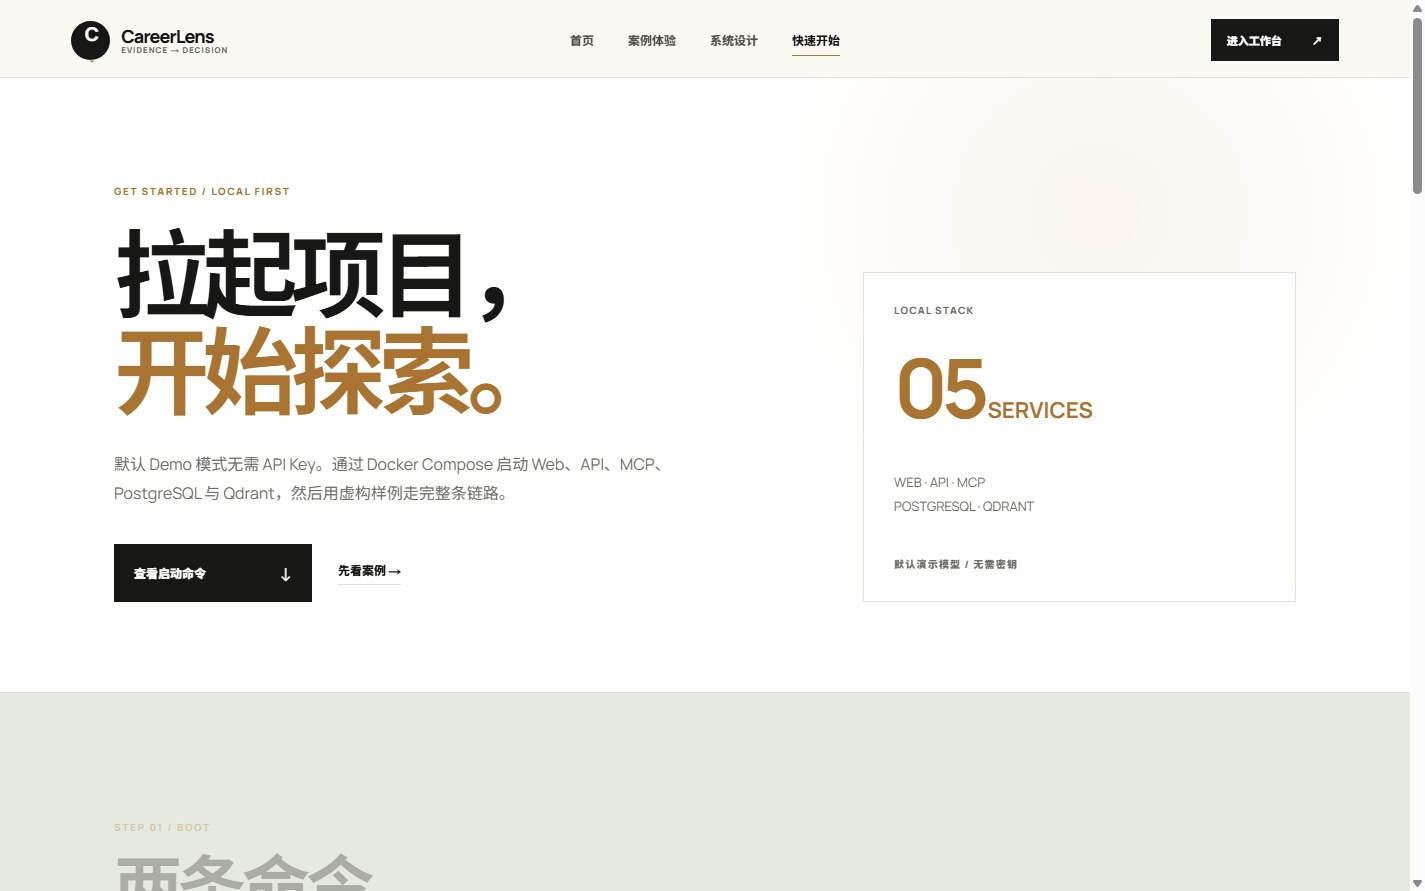
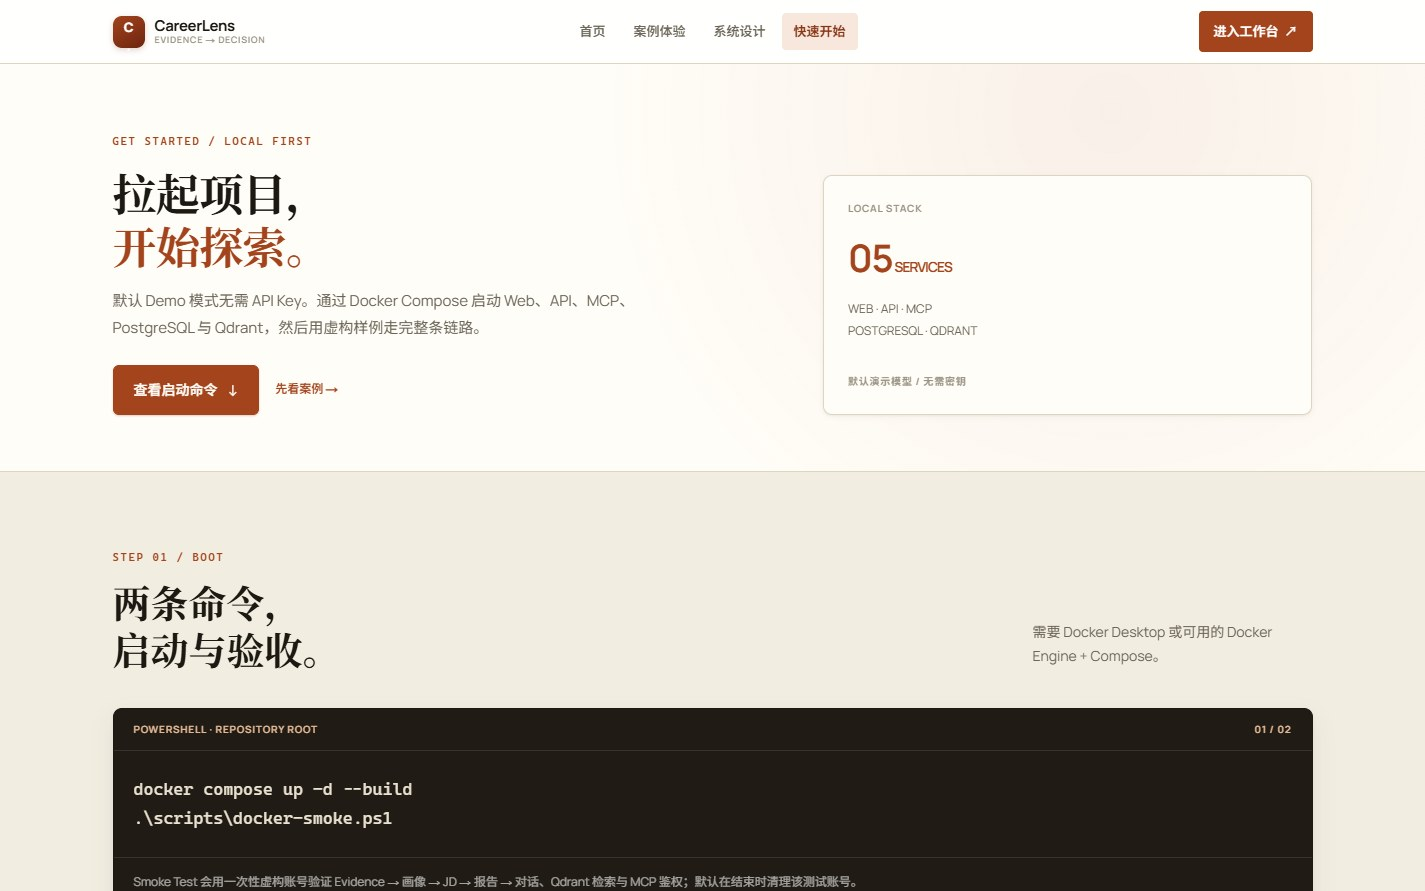
docs: refresh showcase, quality gates and capture workflow

diff --git a/examples/tutorials/fixtures/hy4-lin-api.html b/examples/tutorials/fixtures/hy4-lin-api.html
@@ -1,0 +1,11 @@
+<!doctype html>
+<html lang="zh-CN">
+  <head>
+    <meta charset="utf-8">
+    <title>林澈的课堂 API 作业记录</title>
+    <script type="application/json">{"fixture_marker": "Kubernetes"}</script>
+  </head>
+  <body>
+    <p>我用 Python 和 FastAPI 完成了一次课程接口，并用 Docker 在本机运行。</p>
+  </body>
+</html>

diff --git a/docs/profile-and-recommendations.md b/docs/profile-and-recommendations.md
@@ -2,15 +2,15 @@
 
 这篇文档说明 HY4 增强的行为边界：哪些数字有证据支撑，哪些只是用户自陈，哪些是本地教学模板。实现以当前源码为准，本文不承诺真实市场准确率。
 
+跟做可从[导入与可回查画像](../tutorials/10-导入与可回查画像.md)开始，再用同一份资料做[岗位对比与学习计划](../tutorials/11-岗位对比与学习计划.md)。
+
 ## 1. 导入结果卡
 
-上传文件或解析媒体后，工作台会显示：
+同步上传响应和后台上传任务的 `result` 提供下面几类字段。工作台的任务中心显示状态与证据条数，可用 Run ID 到 Swagger 查看任务结果，随后按证据编号读取原文。
 
-- **可读证据数**：真正生成 Evidence 的条数；
-- **待 OCR 页数**：扫描页数量，这些页不产生文字证据；
-- **重复跳过数**：同源文件重复上传时命中的去重次数；
-- **告警**：待 OCR 页、全扫描件、旧 `.doc` 转换提示；
-- **证据定位**：点击展开原文、来源、页码与 `claim_strength`，可从这里删除单条证据。
+- **`readable_count`** 统计有正文且没有待 OCR 标记的解析块。`count` 统计响应带回的 Evidence。
+- **`ocr_pending_count`** 统计需要 OCR 的扫描页，`warnings` 补充原因。
+- **证据编号** 可从同步上传的 `items` 或任务的 `result.evidence_ids` 查得。重复上传同一文件时，比对证据编号和来源编号。连接器另返回 `created_count`、`skipped_count` 和 `duplicate_count`。
 
 关键口径：**任务成功不等于读出了文字**。全扫描 PDF 可能入库成功但 Evidence 为 0，解析状态是 `partial`。旧 `.doc` 返回 422 并提示另存为 `.docx` 或导出带文字层 PDF。
 
@@ -41,13 +41,13 @@
 - 课程含技能、级别、格式、提供者、课时、成本、先修、URL、许可、语言、最近核对时间和验收方式；
 - 加载时校验重复 ID、悬空先修、URL 协议白名单和日期格式；坏数据报错而不是静默产出空推荐。
 
-推荐是确定性的：方向按真实技能的证据覆盖度排序，课程按技能、先修和每周预算筛选。理由必须能回到 Evidence。人格测评结果、点赞收藏和自填标签都不参与排序。
+推荐按确定性规则运行。方向先按可回查技能覆盖的必需项比例排序，同分再按加分项命中数。课程按技能找目录项，返回建议课时和先修关系，供读者安排时间。方向推荐的理由可以回到 Evidence。人格测评结果、点赞收藏和自填标签都不参与这个排序。
 
 注意：这些是教学模板，不代表招聘市场统计；课程只保留 URL 与元数据，运行时不抓取外部内容。
 
 ## 5. 多 JD 对比与学习看板
 
-用户可保存 2–3 份 JD，保留原句、优先级和用户更正。对比只展示共用能力和重复出现的需求，不把重复要求算两次；每份 JD 的规则分仍需分别运行岗位分析。
+用户可以保留每份 JD 的原句和备注。`GET /api/v1/saved-jobs/compare` 返回最近三份保存记录，可据此并排找共同要求。分别运行岗位分析，才能得到每份 JD 的匹配分和缺口。
 
 学习看板把现有 `learning_path` 按周排布，加入资源、验收方式和进度状态（待开始 / 进行中 / 待提交作品 / 已核对 / 暂停）。进度只能关联当前用户已存在的 Evidence；作品提交不会自动新增能力事实。
 
@@ -80,8 +80,8 @@
 
 - `Coordinator` 预算默认 2，可参数化；现有四个 specialist 之间有数据依赖，仍按顺序派发；
 - 新增的三个 specialist 只返回草稿，不写业务表；
-- 并行前先把 `RunEvent.seq` 改成数据库层原子自增；现在 `event()` 用 `UPDATE ... RETURNING` 分配序号；
-- `delegate_many()` 只对无依赖的只读角色使用；任一分支失败则整次 Run 失败/重试；
+- `event()` 用 `UPDATE ... RETURNING` 原子分配 `RunEvent.seq`；
+- 并行入口的测试使用两个无依赖的只读角色。任一分支失败时，`delegate_many()` 向调用方抛出异常。默认岗位、Wiki 与报告操作仍按各自依赖顺序派发；
 - `delegate()` 失败会补发 `step.failed`，避免 SSE 停在 running；
 - Demo provider 没有网络延迟，测不出提速；只有 fake provider 或真实 provider 的对照数据显示 P95 下降且失败率不升，才能说「提速」。
 
@@ -93,6 +93,7 @@
 
 - **A 用户导出/粘贴**：文本直录、PDF/Word .docx/表格、HTML 另存为与 ZIP 导出包、图片音视频、B站/微博导出、公开链接证据卡；
 - **B 当前页采集**：浏览器扩展手动勾选的可见内容；
+- **T 自备只读令牌**：用自己的 GitHub 令牌读取选定仓库的元数据和 README；
 - **C 需平台授权**：`official_oauth` 明确标为 `available: false`，没有端点，不声称可用。
 
 HTML 与 ZIP 都用 Python 标准库解析：**不联网、不登录、不需要 bs4/lxml**。HTML 跳过 script/style，ZIP 拒绝路径穿越与超大成员。公开链接证据卡只保存用户填写的 URL、标题和说明，后端**从不访问该链接**，也不证明账号归属；链接带 query token 时会被清掉。
@@ -101,7 +102,7 @@ HTML 与 ZIP 都用 Python 标准库解析：**不联网、不登录、不需要
 
 `GET/PUT /api/v1/profiles/{user_id}/view-preferences` 保存五种模式：求职冲刺、转行探索、能力盘点、学习计划、极简模式；并可选择十个显示模块（技能矩阵、经历时间线、兴趣线索、目标角色、证据健康度、工作价值观、约束条件、自定义维度、学习进度、面试故事库）。
 
-模式**只改变展示和推荐软排序**：不修改 `profile_items`、不增删 Evidence、不改变岗位匹配分。偏好存在 `user_constraints`，不属于事实画像。
+模式与模块开关作为显示偏好保存在 `user_constraints`。可以从相同端点读回设置，画像条目、引用和岗位匹配分仍使用各自的数据。
 
 能力证据卡把每条画像拆成「动作 + 环境 + 证据 + 状态」，状态区分已确认/证据支持/自报/待补证据。
 

diff --git a/AI_CONTEXT.md b/AI_CONTEXT.md
@@ -1,6 +1,6 @@
 # CareerLens AI 上下文导航（AI 专用）
 
-> 更新时间：2026-11-25。这个文件是给 AI 查阅用的**代码与公开文档索引**，不是给读者看的产品介绍。
+> 更新时间：2026-11-26。这个文件是给 AI 查阅用的**代码与公开文档索引**，不是给读者看的产品介绍。
 > 目标：让 AI 在回答「某个功能在哪、以前怎么做、现在怎么做、改它要读什么」时，不必重新遍历整个仓库。
 > 入口规则见 [`AGENTS.md`](AGENTS.md)；仓库外的本地管理文档见 [`../AI查阅导航.md`](../AI查阅导航.md)。
 
@@ -13,8 +13,8 @@
 | 产品版本 | v0.4.0；三期产品交付完成，`CHANGELOG.md` 已回填 |
 | 仓库 | https://github.com/wenmo-yu/careerlens |
 | 公开教程站 | https://wenmo-yu.github.io/careerlens/ |
-| 最新公开教程提交 | `07b9edc`（第五至八章加厚）；本轮公开提交序列 `d27e680` → `e9dd414` → `6cd5b86` → `ab95500` → `07b9edc` |
-| 验证基线 | 后端 220 项测试、20 个冻结合成场景、Quality Gate 三项全绿；Docsify build 0 坏链/坏锚点；HY4 后新增导入结果、画像概览、目录推荐、学习进度、测评、运行时、HTML/ZIP、画像模式、来源注册表专项测试 |
+| 最新公开提交 | `f275504`（视觉换向 + 质量门禁）；教程侧最新为 `4974e43`（PR #47，同步工作台重构后的源码链接） |
+| 验证基线 | 后端 245 项测试（覆盖率门槛 78%，实测 82.5%）、20 个冻结合成场景、Playwright 端到端 4 项、Quality Gate 六项全绿（backend / frontend / e2e / docker-smoke / pip-audit / pnpm audit）；Docsify build 96 文件 0 坏链；HY4 后新增导入结果、画像概览、目录推荐、学习进度、测评、运行时、HTML/ZIP、画像模式、来源注册表与 Prometheus 指标专项测试 |
 | 默认可运行方式 | Docker Compose；无需 API Key，使用确定性 Demo 模型与本地检索 |
 | 仍未完成 | 真人独立试学、真机初装/剪贴板/跨端点检、真实模型与旧库迁移；这些是验证缺口，不是源码缺口 |
 | 本地 git 状态 | 本地 `HEAD` 和 `ahead` 可能滞后（远端 fetch 502），**远端 main + Actions + Pages 才是权威** |
@@ -331,7 +331,7 @@ HTTP/MCP 请求
 
 | 文件 | 用途 |
 | --- | --- |
-| `tutorials/README.md` | 四篇基础概念 → 跑产品 → 最小实现与 Agent 源码 → 知识库 → 任务与接入 → 选做和结课 |
+| `tutorials/README.md` | 第一章八篇概念 → 跑产品 → 最小实现与 Agent 源码 → 知识库 → 任务与接入 → 画像和学习实战 → 选做与结课 |
 | `tutorials/setup/动手准备.md` | 终端、编辑器、统一 Python 环境与 8000 / 8030 / 8031 的账号、数据交接 |
 | `tutorials/从这里开始.md` | Docsify 首页；3 分钟证据判断题 |
 | `tutorials/术语表.md` | 术语口径 |
@@ -341,7 +341,7 @@ HTTP/MCP 请求
 | `tutorials/静态观察路线.md` | 不能装 Docker 时的替代路线 |
 | `tutorials/结课模板.md` | 可复跑结课交付模板 |
 
-### 8.2 阶段 0：八篇概念课（`00-foundations/`）
+### 8.2 第一章：八篇概念课（`00-foundations/`）
 
 | 文件 | 主题 |
 | --- | --- |
@@ -369,6 +369,9 @@ HTTP/MCP 请求
 | `08-advanced/08-1-真实模型.md` | 真实模型与 OCR/ASR 边界 |
 | `08-advanced/08-2-评测.md` | 评测实验与指标 |
 | `08-advanced/08-3-贡献与结课.md` | 贡献流程与结课交付 |
+| `09-画像与自陈测评.md` | 自陈与事实对照、三份量表、可选 GitHub 导入 |
+| `10-导入与可回查画像.md` | 合成 HTML 与收藏对照、上传结果、覆盖度、画像偏好和权限清单 |
+| `11-岗位对比与学习计划.md` | 延续第 10 篇账号，按同一画像比较两个岗位、选择课程并保存进度 |
 | `01-agent-design/` | 10 篇 Agent 源码课 + README + `lab/`；从请求状态、路由、工具、MCP、引用、会话到子 Agent 与综合跟做 |
 | `01-agent-design/入门练习-从零写证据助手.md` | 从空目录写证据、检索和引用的最小实现，选做 FastAPI |
 | `04-knowledge-base/` | 6 篇数据知识库课 + README + `lab/kb_practice.py`；去重、检索、Wiki 编译、表格保护、版本回滚、综合验收 |
@@ -381,6 +384,7 @@ HTTP/MCP 请求
 | 路径 | 放的是什么 |
 | --- | --- |
 | `examples/tutorials/README.md` | 六个跟做脚本的依赖与命令索引 |
+| `examples/tutorials/fixtures/hy4-lin-api.html` | 第 10、11 篇共用的合成 HTML 作业证据 |
 | `examples/tutorials/read_mcp_report.py` | 用只读令牌从工具和资源两处读取第 07 篇的同一份报告 |
 | `examples/tutorials/fixtures/{my_scale,work-style-neutral}.json` | 第 09 篇的量表包与可提交答案，原始数据在 assessment 目录 |
 | `examples/tutorials/_client.py` | 教学脚本共用的轻量 API 客户端 |

diff --git a/docs/showcase.md b/docs/showcase.md
@@ -14,7 +14,7 @@
 
 ## 1. 产品首页
 
-首页用证据驱动的职业判断作为主线。右侧控制台是**明确标注为虚构的界面预览**，不是已登录用户的数据。
+首页用证据驱动的职业判断作为主线。标题下方是工作台的真实渲染截图，数据明确标注为虚构示例，不是已登录用户的资料。
 
 ![CareerLens 新版产品首页](assets/overview.jpg)
 
@@ -42,15 +42,15 @@
 
 ## 5. 构建职业画像
 
-导入虚构自述后，系统将其转为 Evidence，并提取带证据数量和置信度的结构化画像条目。
+导入虚构自述后，系统将其转为 Evidence，并提取结构化画像条目。技能用五格等级刻度表示抽取器给出的 L1–L5，可信度只分高/中/低三档，旁边是证据条数——单条自述通常只有 `L2 / 1 条证据 / 可信低`，界面不会把它画成“掌握度 100%”。四块内容分别是类别分布、证据覆盖度、技能矩阵和证据时间线，都提供文字表格降级。
 
-![由虚构经历生成的结构化职业画像](assets/profile.jpg)
+![画像分布、证据覆盖度、技能矩阵与证据时间线](assets/profile.jpg)
 
 ## 6. 岗位逐项匹配
 
-从 JD 识别要求，与当前画像逐项对照，显示 `partial`、`gap` 和学习路径。截图中的 56.9% 是当前规则模型下的匹配分数，**不是录用概率**。
+从 JD 识别要求，与当前画像逐项对照：有证据但只够部分支撑的标 `partial`，没有证据的标 `gap`，右栏按缺口、现有等级与每周可投入时间排出学习路径。同一模块的分数卡给出本轮规则模型的匹配分（本例 56.9%），**它不是录用概率**。
 
-![JD 要求、匹配分数和能力缺口](assets/job-match.jpg)
+![JD 要求逐项对照与 Gap 学习路径](assets/job-match.jpg)
 
 ## 7. 版本化职业报告
 

diff --git a/CHANGELOG.md b/CHANGELOG.md
@@ -50,6 +50,10 @@ HY4 · 画像与推荐增强（本地实现，尚未发布版本）：
 - 公开链接证据卡与 GitHub 导入的确认复选框被 `.link-card-form input { min-width:170px }` 拉成 170px 宽，与说明文字分离；改为 `min-width:0` 的 15px 复选框。
 - 刷新工作台时不恢复已保存画像，用户会误以为数据丢失；挂载时重新拉取 profile、overview 与 evidence。
 - 同一用户在 1 秒内连续提交同一量表会撞 `(user_id, instrument, version, taken_at)` 唯一键并返回 500：`taken_at` 改为 Python 侧微秒时间戳，SQLite 的秒级 `CURRENT_TIMESTAMP` 不再造成碰撞；补回归用例。
+- 镜像启动即崩：Dockerfile 用 `uv sync --frozen` 读 `backend/uv.lock`，而 `pyproject.toml` 新增了 `prometheus-client` 却未重新 lock，容器报 `ModuleNotFoundError`。已重新生成锁文件（仅新增 coverage / prometheus-client / pytest-cov）。
+- `pip-audit` 同时使用 `--strict` 与 `--skip-editable` 会把这个项目自己当成错误并以退出码 1 结束，扫描根本没开始；去掉 `--strict`。
+- pytest 8.4.2 命中 PYSEC-2026-1845（UNIX 上 `/tmp/pytest-of-{user}` 全局可写，本地 DoS 与可能的提权）；dev 依赖升到 `pytest>=9.0.3,<10` 与 `pytest-asyncio>=1.0,<2`。生产镜像用 `--no-dev`，运行时不引入 pytest。
+- Dependabot 的 Python 生态指错：仓库有 `backend/uv.lock` 且镜像由 uv 构建，应使用 `uv` 而不是 `pip`。
 - GitHub 仓库地址带 `?tab=readme` 或 `#install` 时被误判为非法 `owner/name`：规范化时先剥离 query 与 fragment。
 
 ## 0.4.0 - 2026-11-19

diff --git a/SECURITY.md b/SECURITY.md
@@ -17,3 +17,11 @@ In a private report, include the affected version, component, expected impact, a
 - Put HTTP services behind TLS and a trusted reverse proxy. Restrict PostgreSQL and Qdrant ports at the network boundary.
 - Back up PostgreSQL and Qdrant together and test restoration and deletion propagation.
 - Treat MCP stdio as a trusted local boundary. Expose only the authenticated Streamable HTTP transport remotely.
+- `GET /metrics` carries no personal data (request counts, latency histograms, in-flight gauge) and is unauthenticated like the probes. When the API is reachable from the internet, set `METRICS_ENABLED=false` or restrict the path at the gateway.
+
+## Dependencies and supply chain
+
+- `Dependency Audit` runs weekly, on manual dispatch, and whenever `backend/pyproject.toml`, `backend/uv.lock` or `frontend/pnpm-lock.yaml` change. It runs `pip-audit` over the installed backend environment and `pnpm audit --prod --audit-level high`.
+- It is a separate workflow on purpose: a newly published CVE should fail that workflow immediately without blocking unrelated pull requests.
+- Dependabot watches three ecosystems (uv at `/backend`, npm at `/frontend`, GitHub Actions at `/`). Patch updates are grouped into single PRs; major jumps on `langgraph` and `mcp` are ignored because they need a migration.
+- The backend image builds with `uv sync --frozen` from `backend/uv.lock`. Changing dependencies in `pyproject.toml` without regenerating the lock produces an image missing packages, so both files must move together.

diff --git a/docs/evaluation-and-operations.md b/docs/evaluation-and-operations.md
@@ -24,6 +24,17 @@ docker compose up -d --build
 
 Web 默认在 `http://localhost:3000`，API 文档在 `http://localhost:8000/docs`，MCP 在 `http://localhost:8001/mcp`，Qdrant Dashboard 在 `http://localhost:16333/dashboard`。smoke 成功应输出 `status : passed`，默认还会删除测试账号；用 `-KeepData` 才保留排查数据。Docker 命名卷在 `docker compose down` 后仍保留，`down -v` 会删除卷，不应用于需要保留数据的场景。
 
+运行时指标在 `http://localhost:8000/metrics`（Prometheus 文本格式）：请求计数、延迟直方图、并发请求数。标签用路由模板而不是原始 URL，所以用户变多不会撑爆序列；`METRICS_ENABLED=false` 可关闭。
+
+依赖与供应链检查（在 `backend/` 与 `frontend/` 分别执行）：
+
+```text
+python -m pip_audit --desc --skip-editable
+pnpm audit --prod --audit-level high
+```
+
+CI 里这两条在独立的 `Dependency Audit` 工作流中运行，每周与依赖变更时触发，不与质量门禁混在一起——新披露的 CVE 应该让审计立刻变红，而不是卡住无关的 PR。
+
 后端镜像使用 uv 两阶段构建并消费 `backend/uv.lock`（`uv sync --frozen`），依赖版本可复现。`INSTALL_ML`、`INSTALL_MULTIMODAL`、`INSTALL_OBSERVABILITY` 构建参数分别启用对应 extra；默认镜像只装核心依赖。修改 `pyproject.toml` 后须同步更新 `uv.lock`，否则 `--frozen` 构建会失败。
 
 ## 常见排查路径

diff --git a/docs/architecture.md b/docs/architecture.md
@@ -18,6 +18,7 @@ flowchart LR
     Graph --> Q
     Graph --> Provider
     Graph --> CP[(PostgreSQL Checkpoint)]
+    Scraper[Prometheus / Grafana] -.->|GET /metrics| API
 ```
 
 | 层 | 职责 | 代码入口 |
@@ -29,6 +30,7 @@ flowchart LR
 | Retrieval | 用户范围内的 Dense + Sparse 检索与本地降级 | [`backend/app/retrieval/`](../backend/app/retrieval/) |
 | Persistence | SQLAlchemy 模型、Alembic 迁移、Qdrant 索引 | [`backend/app/models/`](../backend/app/models/)、[`backend/migrations/`](../backend/migrations/) |
 | MCP | 共享业务服务的工具、资源和提示模板 | [`backend/app/mcp/server.py`](../backend/app/mcp/server.py) |
+| Observability | `GET /metrics` 的请求计数、延迟直方图与并发数；OpenTelemetry 追踪按需启用 | [`backend/app/observability/prometheus.py`](../backend/app/observability/prometheus.py)、[`backend/app/observability/tracing.py`](../backend/app/observability/tracing.py) |
 
 ## 一次完整请求如何流转
 

diff --git a/examples/tutorials/fixtures/README.md b/examples/tutorials/fixtures/README.md
@@ -1,12 +1,13 @@
 # 教程合成夹具
 
-给 [03 解析层](../../../tutorials/03-解析层.md) 的两级去重实验用。全部是虚构材料，不含真实个人资料。
+下面是教程使用的合成材料。
 
 | 文件 | 用途 |
 | --- | --- |
 | `make_docx.py` | 用 **Python 标准库**生成下面两个 DOCX（手搓最小 OOXML，生成端零依赖）。 |
 | [demo-a.docx](demo-a.docx) | 标题「演示 A」，正文含共享段落。 |
 | [demo-b.docx](demo-b.docx) | 标题「演示 B」，正文含相同的共享段落。 |
+| [hy4-lin-api.html](hy4-lin-api.html) | 作业正文连同一段会被解析器跳过的脚本标记。供[第 10 篇](../../../tutorials/10-导入与可回查画像.md)做导入与证据回查。 |
 
 两份 DOCX 字节不同（所以是两份 SourceDocument），但含同一段正文（所以共享一条 Evidence）。这正是实验要观察的现象。
 

diff --git a/ROADMAP.md b/ROADMAP.md
@@ -12,3 +12,5 @@
 | 6 | 平台授权与真实模型 | 🔄 部分完成 | GitHub 已用「用户自备只读令牌」跑通，无需注册应用；OAuth 授权码流程、其他平台的凭证表与只读同步仍未实现。真实 OCR/ASR 与模型质量、知乎/掘金/CSDN/小红书专用解析器仍需真实脱敏样本后再排期。 |
 
 前两项已合并入 `main` 并发布；补丁级依赖更新已随 CI 合并，major 升级需专项评估。合并前检查迁移、升级和文档，验收通过后单独发布。
+
+质量门禁现状（2026-11-26）：`Quality Gate` 四项作业（backend 含覆盖率门槛 78%、frontend、Playwright 端到端、Docker 全栈冒烟）与 `Dependency Audit` 两项审计全绿；`GET /metrics` 提供 Prometheus 抓取面。
